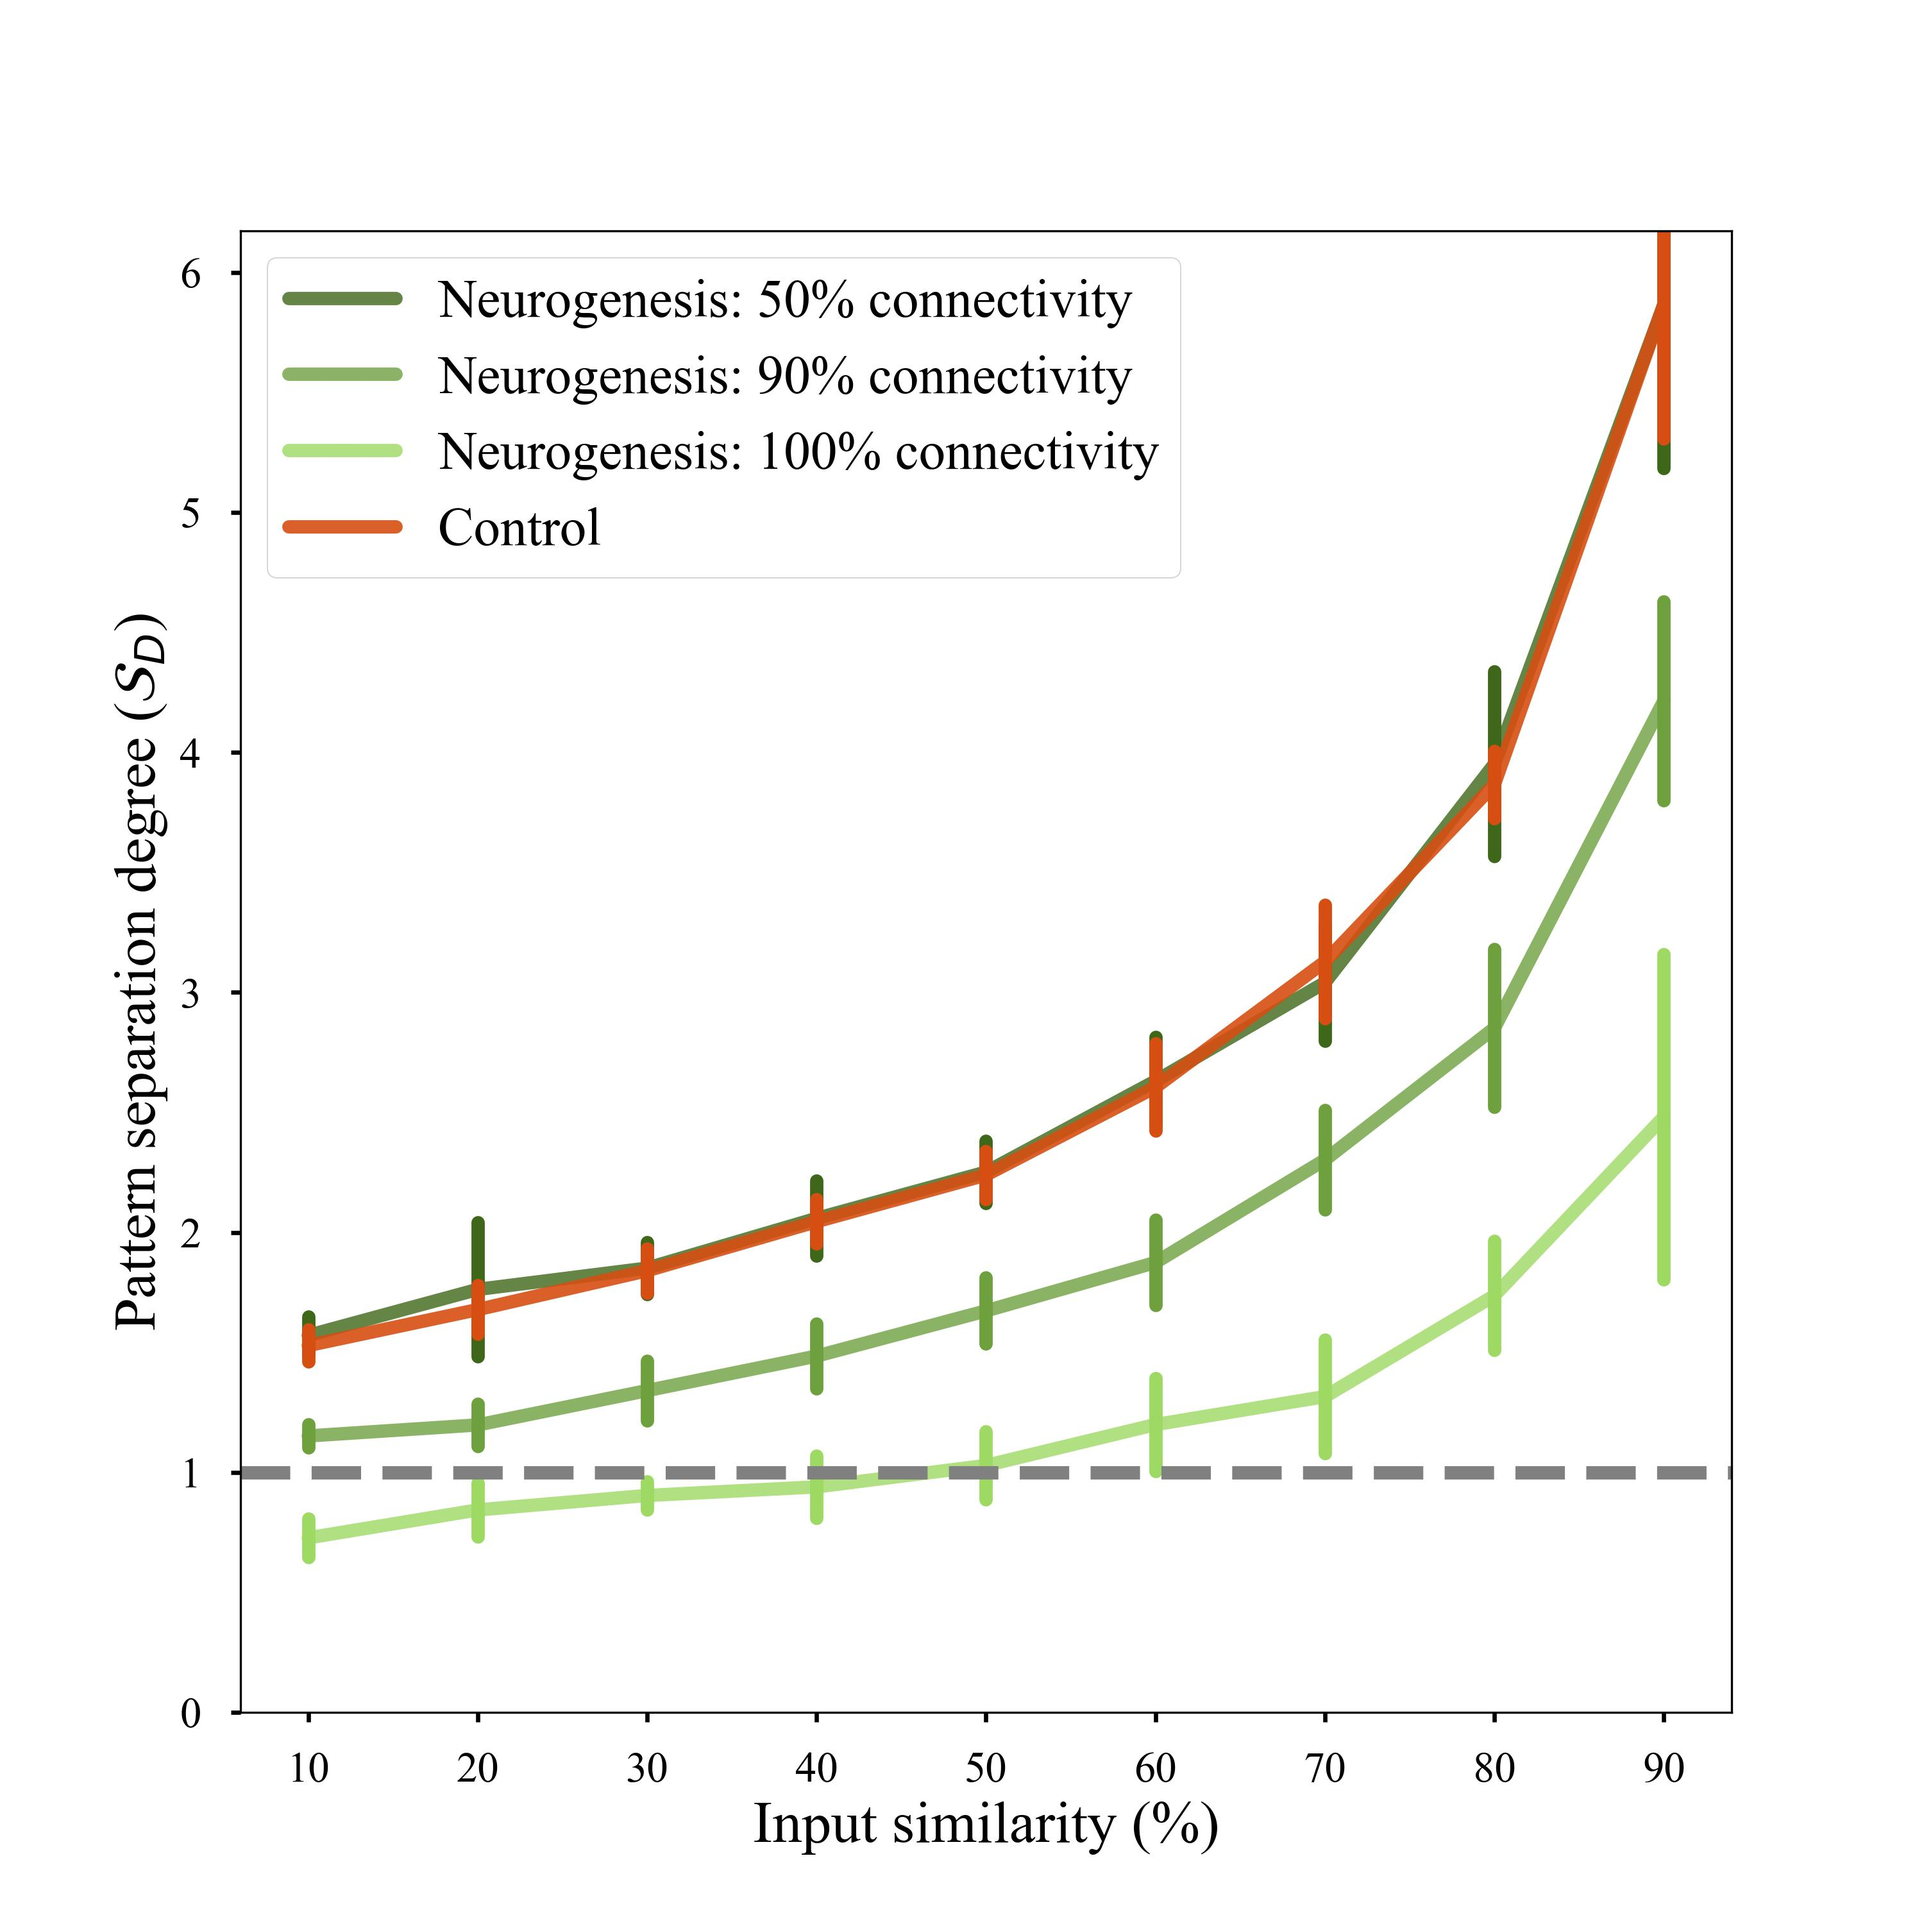
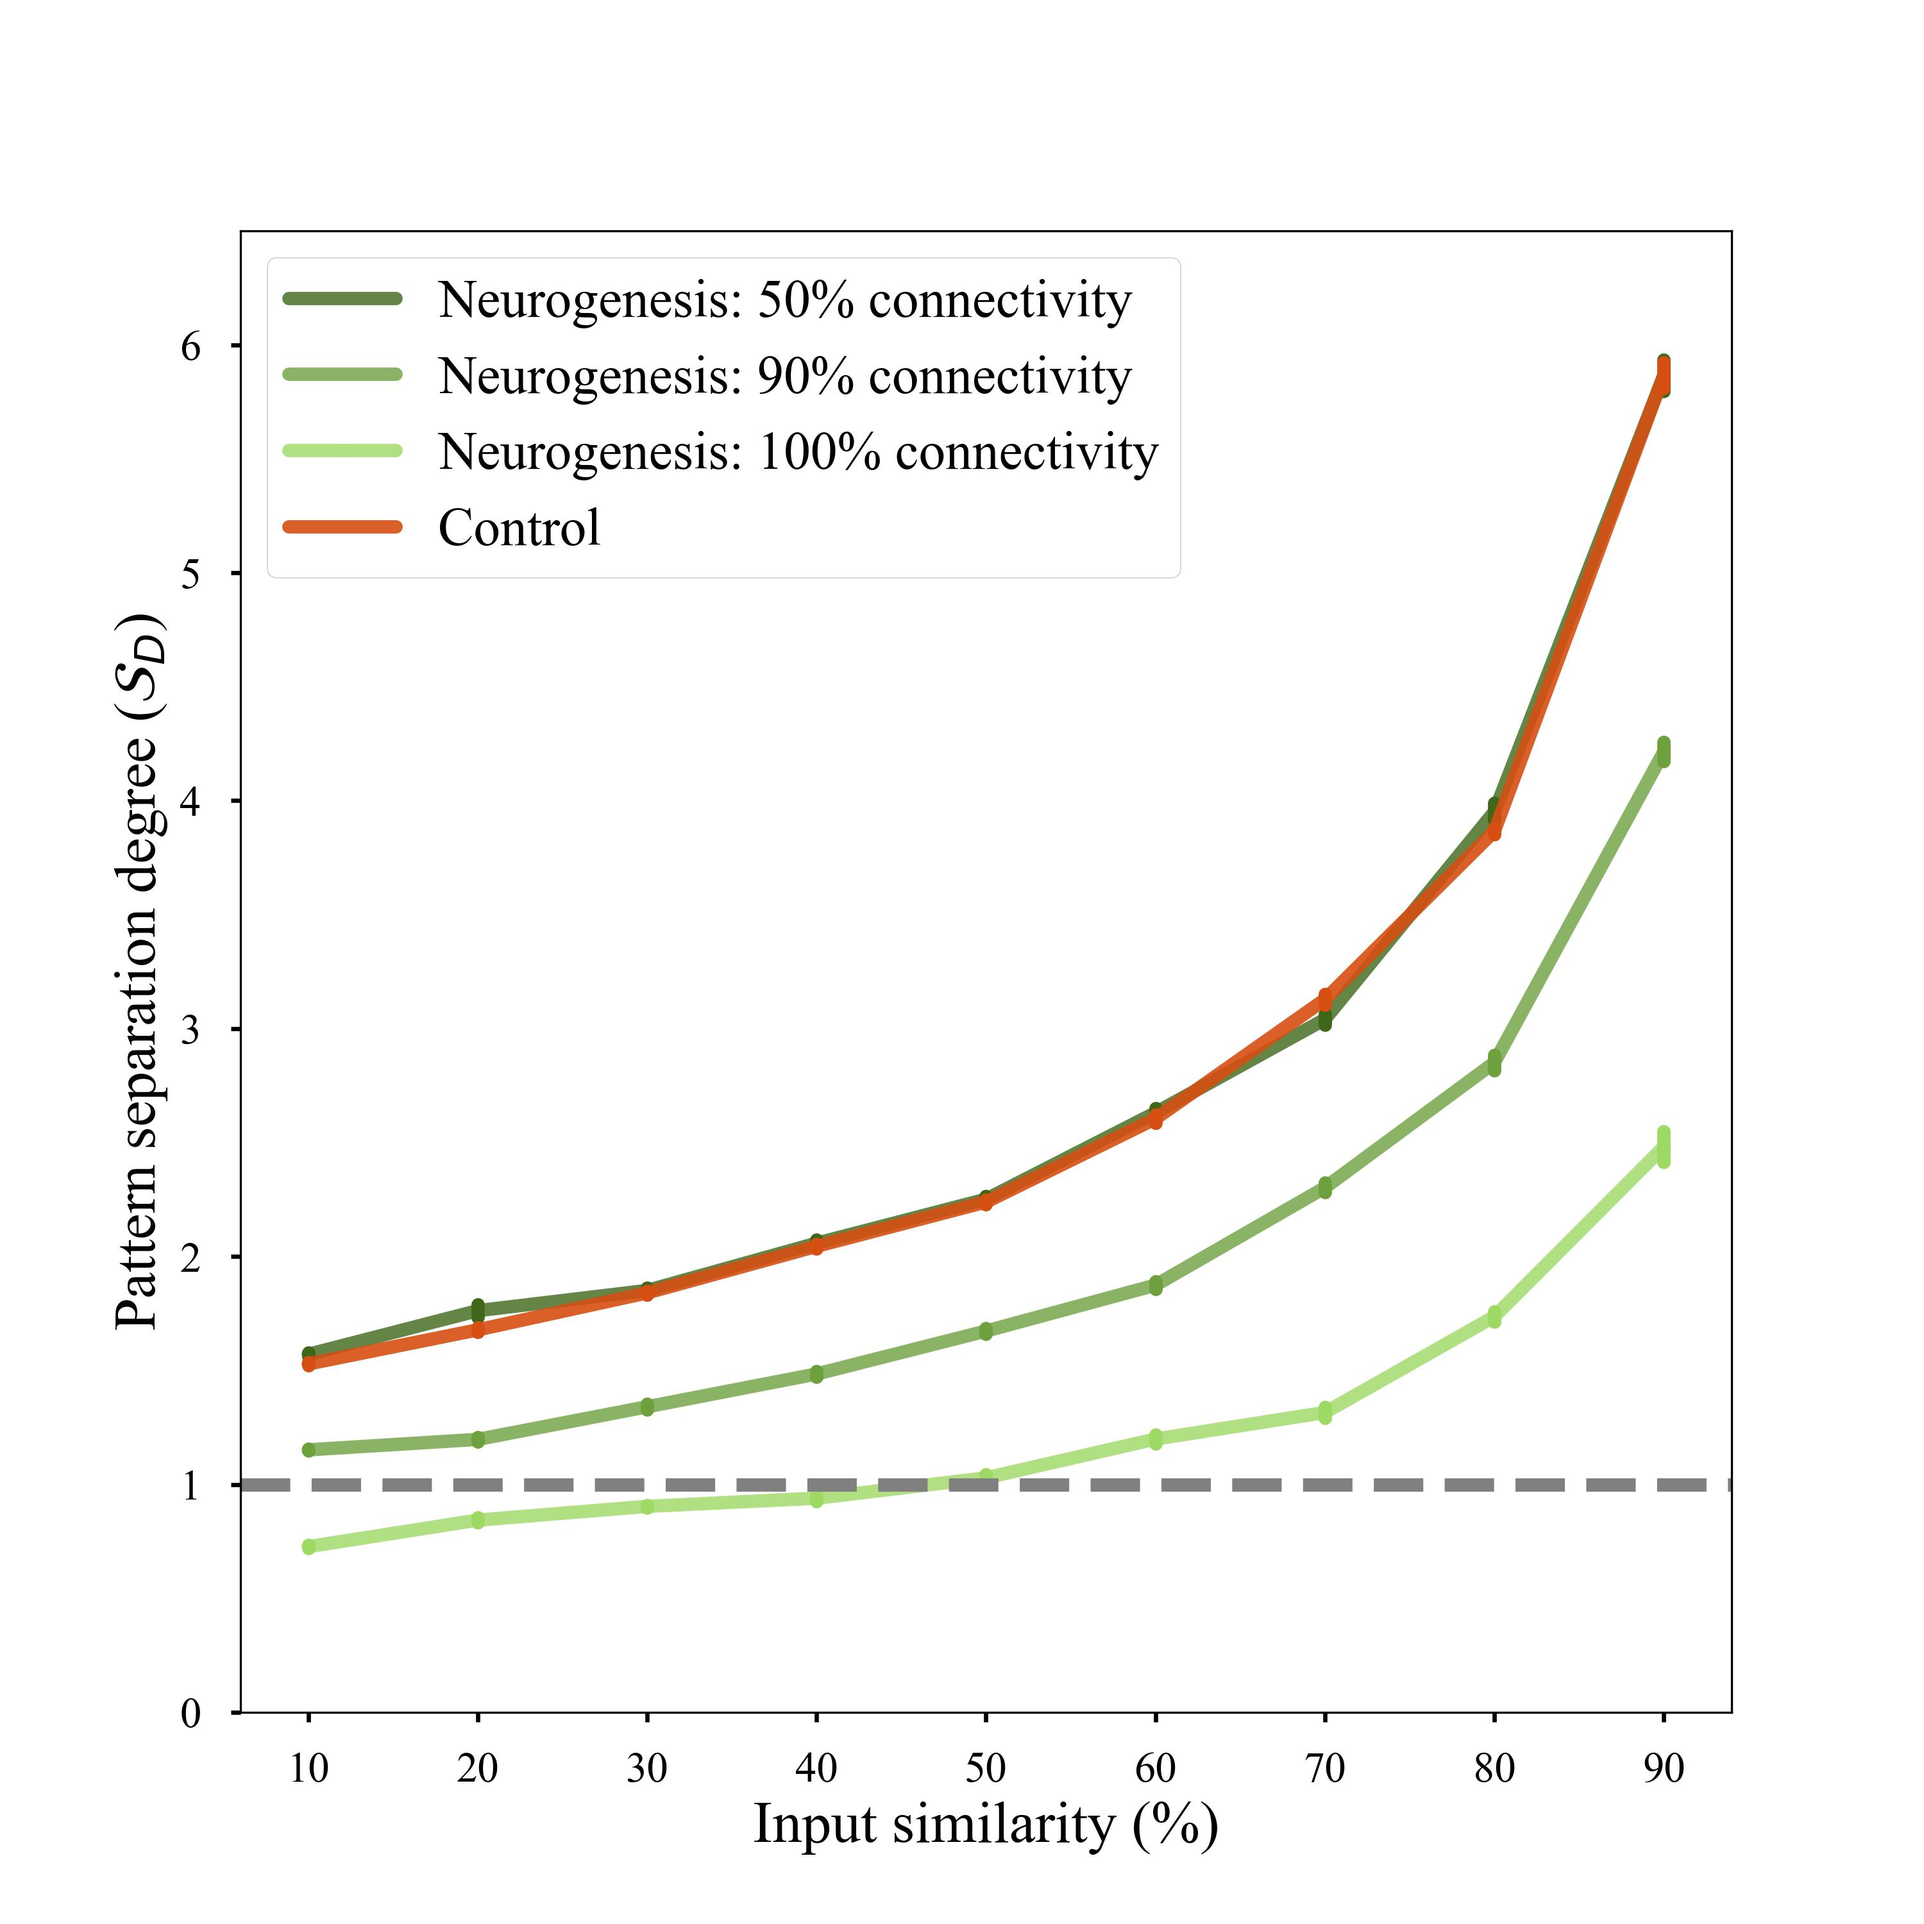
fix std error

Changed region(s): [[0.124, 0.124, 0.899, 0.806]]

diff --git a/scripts/data/avg_pattern_separation.py b/scripts/data/avg_pattern_separation.py
@@ -1,3 +1,4 @@
+import math
 import numpy as np
 import matplotlib.pyplot as plt
 from matplotlib.ticker import PercentFormatter
@@ -6,7 +7,7 @@ from matplotlib.colors import LinearSegmentedColormap
 from matplotlib.collections import LineCollection
 from matplotlib.lines import Line2D
 
-from utils.patterns import pattern_separation_degree, activation_degree, correlation_degree, pattern_integration_degree
+from utils.patterns import pattern_separation_degree
 from utils.data import load_pattern_data
 
 plt.style.use('seaborn-v0_8-poster')
@@ -21,7 +22,9 @@ plt.rcParams.update({
     "ytick.labelsize": 16,
     "legend.fontsize": 20,
 
-    "lines.linewidth": 3,
+    "lines.linewidth": 5,
+    'lines.solid_joinstyle': 'round',
+    'lines.solid_capstyle': 'round',
 })
 
 data = load_pattern_data('run_05')
@@ -32,8 +35,9 @@ def in_similarity():
   sds = {}
   i_sds = {}
   m_sds = {}
-  boxplot_data = {}
-  std_devs = {}
+  sems = {}
+  sems_i = {}
+  sems_m = {}
   for group in groups:
     in_sim_dict = {}
     i_in_sim_dict = {}
@@ -52,8 +56,8 @@ def in_similarity():
         mout = pattern['mgc_pattern']
 
         s_d = pattern_separation_degree(original_inp, inp, original_out, out)
-        i_s_d = pattern_integration_degree(original_inp, inp, original_iout, iout)
-        m_s_d = pattern_integration_degree(original_inp, inp, original_mout, mout)
+        i_s_d = pattern_separation_degree(original_inp, inp, original_iout, iout)
+        m_s_d = pattern_separation_degree(original_inp, inp, original_mout, mout)
 
         if sim not in in_sim_dict:
           in_sim_dict[sim] = []
@@ -71,14 +75,17 @@ def in_similarity():
     mean_i_sd = np.mean([np.mean(sds) for sds in i_in_sim_dict.values()])
     mean_m_sd = np.mean([np.mean(sds) for sds in m_in_sim_dict.values()])
 
-    # std_dev = np.std([np.std(sds, ddof=1) for sds in in_sim_dict.values()])
-    std_dev = sem([np.mean(sds) for sds in in_sim_dict.values()])
+    std_error = sem([np.mean(sds) for sds in in_sim_dict.values()])
+    std_error_i = sem([np.mean(sds) for sds in i_in_sim_dict.values()])
+    std_error_m = sem([np.mean(sds) for sds in m_in_sim_dict.values()])
 
     sds[group] = mean_sd
     i_sds[group] = mean_i_sd
     m_sds[group] = mean_m_sd
-    boxplot_data[group] = [np.mean(sds) for sds in in_sim_dict.values()]
-    std_devs[group] = std_dev
+    
+    sems[group] = std_error
+    sems_i[group] = std_error_i
+    sems_m[group] = std_error_m
   
   fig, ax = plt.subplots()
 
@@ -89,6 +96,10 @@ def in_similarity():
   sds = [sds[group] for group in groups]
   i_sds = [i_sds[group] for group in groups]
   m_sds = [m_sds[group] for group in groups]
+
+  sems = [sems[group] for group in groups]
+  sems_i = [sems_i[group] for group in groups]
+  sems_m = [sems_m[group] for group in groups]
   
   # plt.gca().set_aspect('equal')
 
@@ -106,27 +117,49 @@ def in_similarity():
   print(sds)
   plt.axhline(y=sds[0], color=c_color, linestyle='--', label='Control')
   plt.axhline(y=1, color='gray', linestyle='--')
+  ax.set_ylim(0, 6.5)
   
-  alpha = 0.85
-  plt.plot(groups[1:], sds[1:], color='#8bd346', label='Full GC population pattern', marker='o', alpha=alpha)
-  plt.plot(groups[1:], i_sds[1:], color='#16a4d8', label='iGC pattern', marker='o', alpha=alpha)
-  plt.plot(groups[1:], m_sds[1:], color='#9b5fe0', label='mGC pattern', marker='o', alpha=alpha)
+  ng_groups = groups[1:]
+  sds = sds[1:]
+  i_sds = i_sds[1:]
+  m_sds = m_sds[1:]
+
+  alpha = 0.8
+  plt.plot(ng_groups, sds, color='#8bd346', label='Full GC population pattern', alpha=alpha)
+  plt.plot(ng_groups, i_sds, color='#16a4d8', label='iGC pattern', alpha=alpha)
+  plt.plot(ng_groups, m_sds, color='#9b5fe0', label='mGC pattern', alpha=alpha)
   
   plt.legend()
-  # lc = LineCollection(segments, cmap=cmap, norm=norm)
-  # lc.set_array(x)
-  # lc.set_linewidth(2)
 
-  # line = ax.add_collection(lc)
+  _,_,barlinecols = ax.errorbar(
+      ng_groups,
+      sds,
+      yerr=sems[1:],
+      ecolor='#8bd346',
+      alpha=alpha,
+      linestyle='None'
+  )
+  plt.setp(barlinecols[0], capstyle="round")
 
+  _,_,barlinecols = ax.errorbar(
+      ng_groups,
+      i_sds,
+      yerr=sems_i[1:],
+      ecolor='#16a4d8',
+      alpha=alpha,
+      linestyle='None'
+  )
+  plt.setp(barlinecols[0], capstyle="round")
 
-
-  # ax.errorbar(
-  #     sorted_groups,
-  #     sorted_sds,
-  #     yerr=sorted_std_devs,
-  #     # color=color
-  # )
+  _,_,barlinecols = ax.errorbar(
+      ng_groups,
+      m_sds,
+      yerr=sems_m[1:],
+      ecolor='#9b5fe0',
+      alpha=alpha,
+      linestyle='None'
+  )
+  plt.setp(barlinecols[0], capstyle="round")
 
   # ax.boxplot(
   #     sorted_boxplot_data,
@@ -139,17 +172,16 @@ def in_similarity():
   #     meanprops=dict(marker="D", markeredgecolor="black", markerfacecolor="gold")
   # )
 
-  # Add a colorbar to show the gradient scale
-  sm = plt.cm.ScalarMappable(cmap=cmap, norm=plt.Normalize(vmin=0.1, vmax=1.0))
-  sm.set_array([])
+  # sm = plt.cm.ScalarMappable(cmap=cmap, norm=plt.Normalize(vmin=0.1, vmax=1.0))
+  # sm.set_array([])
   # cbar = plt.colorbar(sm, ax=plt.gca(), pad=0.1)
 
-  plt.title('Average pattern separation degree ($\\mathcal{S}_D$) by group and population')
-  plt.xlabel('Groups')
-  plt.ylabel('$\\mathcal{S}_D$')
+  # plt.title('Average pattern separation degree ($\\mathcal{S}_D$) by group and population')
+  plt.xlabel('Neurogenesis models with X% connectivity fraction')
+  plt.ylabel('')
   # plt.axhline(y=1, color='gray', linestyle='--')
 
-  xlabels = ['Ng 10%', 'Ng 20%', 'Ng 30%', 'Ng 40%', 'Ng 50%', 'Ng 60%', 'Ng 70%', 'Ng 80%', 'Ng 90%', 'Ng 100%']
+  xlabels = range(10, 101, 10)
   plt.xticks(ticks=range(len(xlabels)), labels=xlabels)
   # plt.legend()
 

diff --git a/scripts/data/avg_activity.py b/scripts/data/avg_activity.py
@@ -44,9 +44,9 @@ def in_similarity():
   ads = {}
   iads = {}
   mads = {}
-  std_devs = {}
-  std_devs_i = {}
-  std_devs_m = {}
+  std_errors = {}
+  std_errors_i = {}
+  std_errors_m = {}
 
   group_ads = {}
   group_iads = {}
@@ -94,17 +94,17 @@ def in_similarity():
     mean_iad = np.mean([np.mean(ads) for ads in i_in_sim_dict.values()])
     mean_mad = np.mean([np.mean(ads) for ads in m_in_sim_dict.values()])
 
-    std_dev_ad = sem([np.mean(ads) for ads in in_sim_dict.values()])
-    std_dev_iad = sem([np.mean(ads) for ads in i_in_sim_dict.values()])
-    std_dev_mad = sem([np.mean(ads) for ads in m_in_sim_dict.values()])
+    std_error_ad = sem([np.mean(ads) for ads in in_sim_dict.values()])
+    std_error_iad = sem([np.mean(ads) for ads in i_in_sim_dict.values()])
+    std_error_mad = sem([np.mean(ads) for ads in m_in_sim_dict.values()])
 
     ads[group] = mean_ad
     iads[group] = mean_iad
     mads[group] = mean_mad
 
-    std_devs[group] = std_dev_ad
-    std_devs_i[group] = std_dev_iad
-    std_devs_m[group] = std_dev_mad
+    std_errors[group] = std_error_ad
+    std_errors_i[group] = std_error_iad
+    std_errors_m[group] = std_error_mad
 
   fig, ax = plt.subplots(figsize=(10, 10), dpi=300)
   # fig, ax = plt.subplots()
@@ -122,9 +122,9 @@ def in_similarity():
   iads = [iads[group] for group in groups]
   mads = [mads[group] for group in groups]
 
-  std_devs = np.array([std_devs[group] for group in groups])
-  std_devs_i = [std_devs_i[group] for group in groups]
-  std_devs_m = [std_devs_m[group] for group in groups]
+  std_errors = np.array([std_errors[group] for group in groups])
+  std_errors_i = [std_errors_i[group] for group in groups]
+  std_errors_m = [std_errors_m[group] for group in groups]
 
   # ax.axhline(y=ads[0], color=c_color, linestyle='--', label='Control')
   ax.axhline(y=ads[0], color=c_color, linestyle='--')
@@ -139,7 +139,7 @@ def in_similarity():
   _,_,barlinecols = ax.errorbar(
       ng_groups,
       ads[1:],
-      yerr=std_devs[1:],
+      yerr=std_errors[1:],
       ecolor='#8bd346',
       linestyle='None'
   )
@@ -148,7 +148,7 @@ def in_similarity():
   _,_,barlinecols = ax.errorbar(
       ng_groups,
       iads[1:],
-      yerr=std_devs_i[1:],
+      yerr=std_errors_i[1:],
       ecolor='#16a4d8',
       linestyle='None'
   )
@@ -157,7 +157,7 @@ def in_similarity():
   _,_,barlinecols = ax.errorbar(
       ng_groups,
       mads[1:],
-      yerr=std_devs_m[1:],
+      yerr=std_errors_m[1:],
       ecolor='#9b5fe0',
       linestyle='None'
   )

diff --git a/scripts/data/pattern_separation.py b/scripts/data/pattern_separation.py
@@ -38,7 +38,7 @@ def in_similarity():
   group_stats = {}
   in_sims = []
   sds = []
-  std_devs = []
+  std_errors = []
   for group in groups:
     in_sim_dict = {}
     trial_means_list = []
@@ -78,23 +78,23 @@ def in_similarity():
     group_stats[group] = group_sim_data
 
     average_sd = {sim: np.mean(sds) for sim, sds in in_sim_dict.items()}
-    # std_error = {sim: sem(sds) for sim, sds in in_sim_dict.items()}
-    std_dev = {sim: np.std(sds, ddof=1) for sim, sds in in_sim_dict.items()}  # Standard Deviation (SD)
+    std_error = {sim: sem(sds) for sim, sds in in_sim_dict.items()}
 
     sorted_in_sim = sorted(average_sd.keys())
     sorted_average_sd = [average_sd[sim] for sim in sorted_in_sim]
-    sorted_std_dev = [std_dev[sim] for sim in sorted_in_sim]
+    sorted_std_error = [std_error[sim] for sim in sorted_in_sim]
 
     in_sims.append(sorted_in_sim)
     sds.append(sorted_average_sd)
-    std_devs.append(sorted_std_dev)
+    std_errors.append(sorted_std_error)
 
   fig, ax = plt.subplots(figsize=(10, 10), dpi=300)
   # fig, ax = plt.subplots()
   # ax.xaxis.set_major_formatter(PercentFormatter(xmax=1))
   formatter = FuncFormatter(lambda y, _: f'{y*100:.0f}')
   ax.xaxis.set_major_formatter(formatter)
-  ax.set_ylim(0, max(max(y) for y in sds)+0.1)
+  # ax.set_ylim(0, max(max(y) for y in sds)+0.1)
+  ax.set_ylim(0, 6.5)
 
   c_color = "#d64e12"
   cmap = LinearSegmentedColormap.from_list('neuro_cmap', ['#3f6719','#9dd963'])
@@ -102,8 +102,8 @@ def in_similarity():
   groups_to_skip = ['neurogenesis_0.1', 'neurogenesis_0.2', 'neurogenesis_0.3', 'neurogenesis_0.4', 'neurogenesis_0.6', 'neurogenesis_0.7', 'neurogenesis_0.8']
   total_ng = len(groups) - len(groups_to_skip) - 1
   cmap_index = 0
-  # values = zip(in_sims, sds, std_devs)
-  for i, (in_sim, sd, std_dev) in enumerate(zip(in_sims, sds, std_devs)):
+  # values = zip(in_sims, sds, std_errors)
+  for i, (in_sim, sd, std_error) in enumerate(zip(in_sims, sds, std_errors)):
     group = groups[i]
     if group in groups_to_skip:
       continue
@@ -124,7 +124,7 @@ def in_similarity():
     plotline, caps, barlinecols = ax.errorbar(
         in_sim,
         sd,
-        yerr=std_dev,
+        yerr=std_error,
         ecolor=color,
         linestyle='None',
     )
